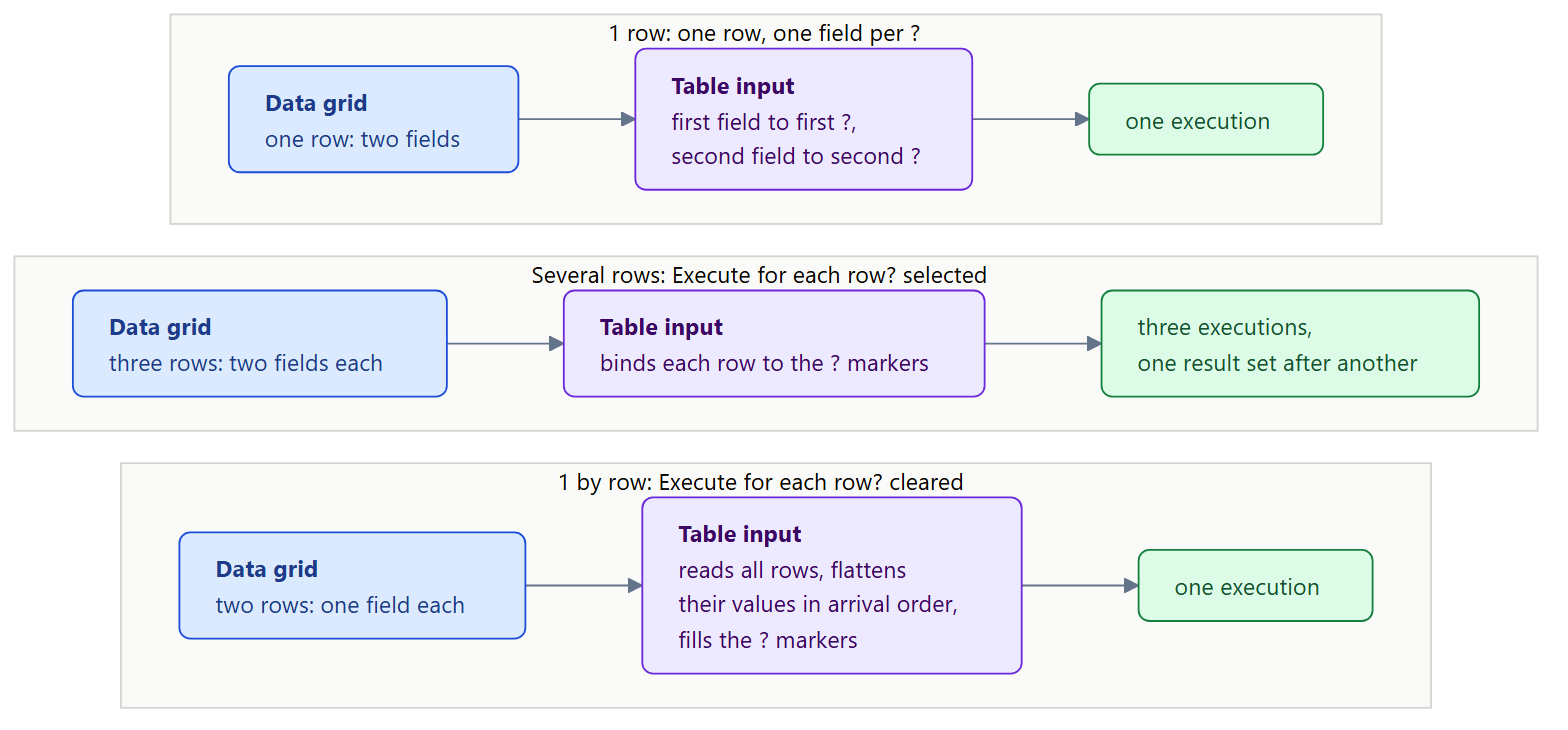
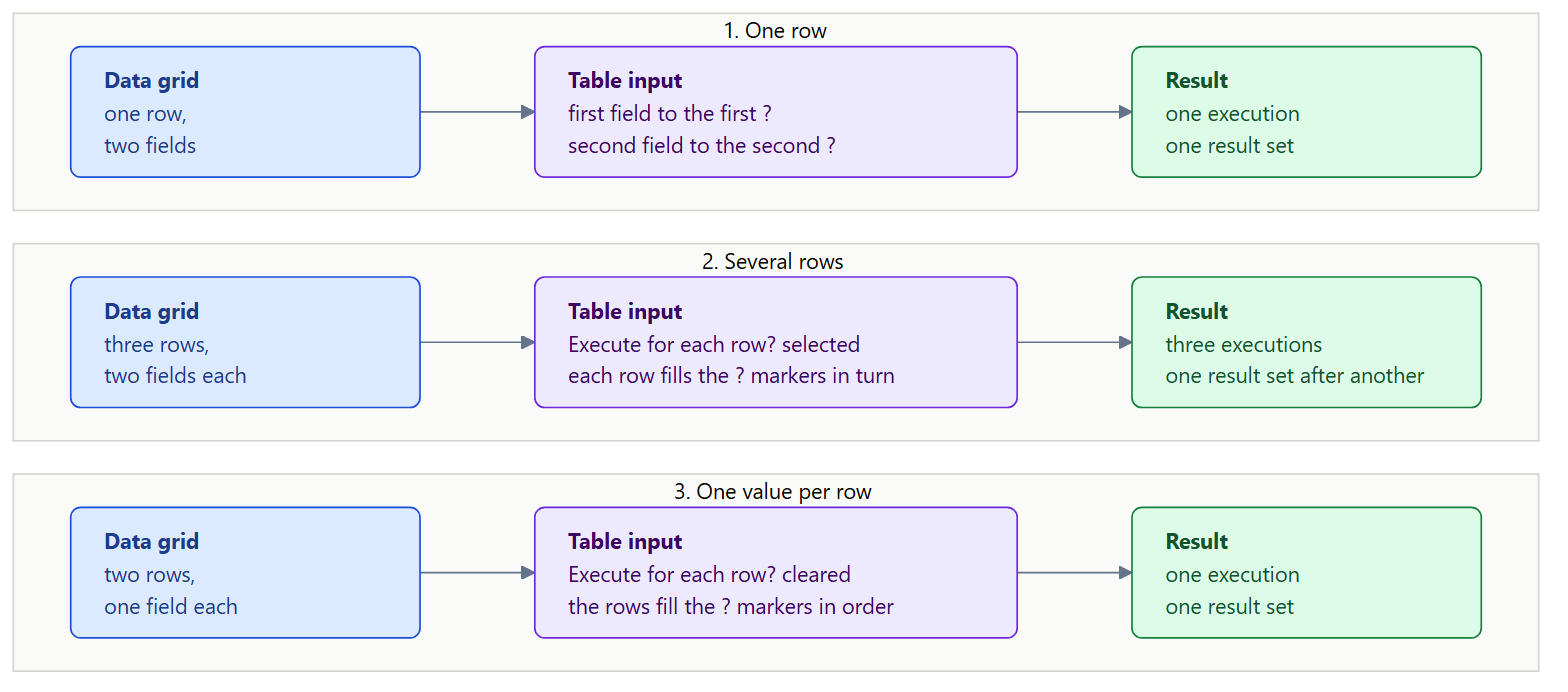
Update developer-di-practitioner from the Content Editor

diff --git a/developer-di-practitioner/35-mod5-parameters-sql/guide.md b/developer-di-practitioner/35-mod5-parameters-sql/guide.md
@@ -17,7 +17,7 @@
 > 
 > **Prerequisites:** [Parameters](../34-mod5-parameters/guide.md) (named parameters and `${}` substitution) and the `MySQL:sampledata` connection from [Connecting to Database](../12-mod3-connecting-to-database/guide.md).
 > 
-> **Estimated time:** 20 minutes
+> **Estimated time:** 10 minutes
 
 <figure>
 
@@ -36,7 +36,7 @@
 
 <div align="center">
 <figure>
-<img src="../_assets/images/sql-bind-parameters.png" alt="Three ways to fill the ? markers: one row with two fields runs the query once; three rows with Execute for each row? selected run it three times; two rows of one field with Execute for each row? cleared are flattened in arrival order and run it once" width="784">
+<img src="../_assets/images/1793615101246.png" alt="Three ways to fill the ? markers: one row with two fields runs the query once; three rows with Execute for each row? selected run it three times; two rows of one field with Execute for each row? cleared are flattened in arrival order and run it once" width="784">
 <figcaption>How each Data grid fills the ? markers</figcaption>
 </figure>
 </div>
